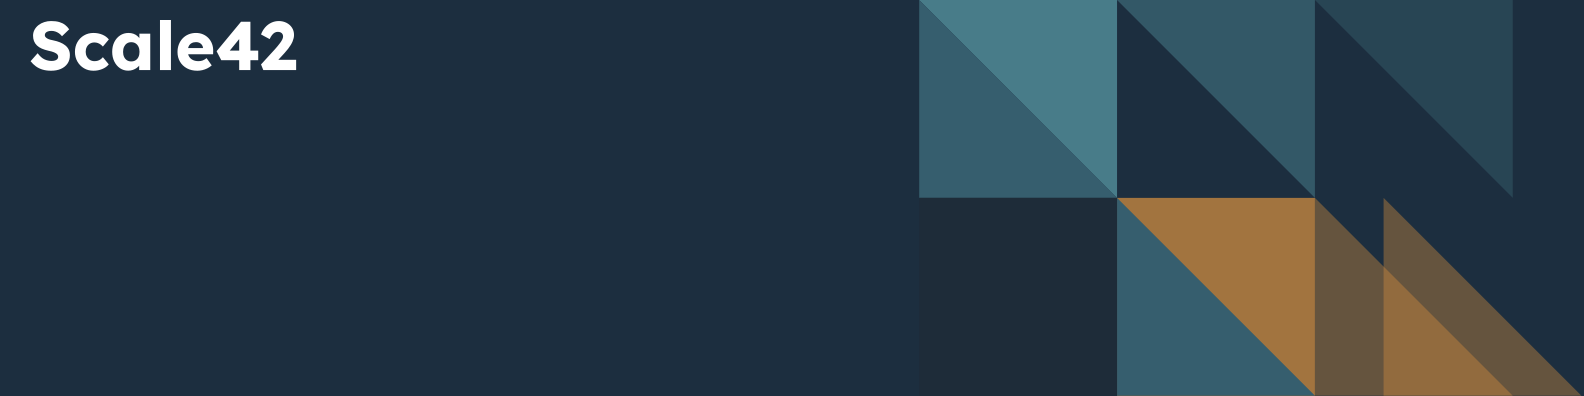
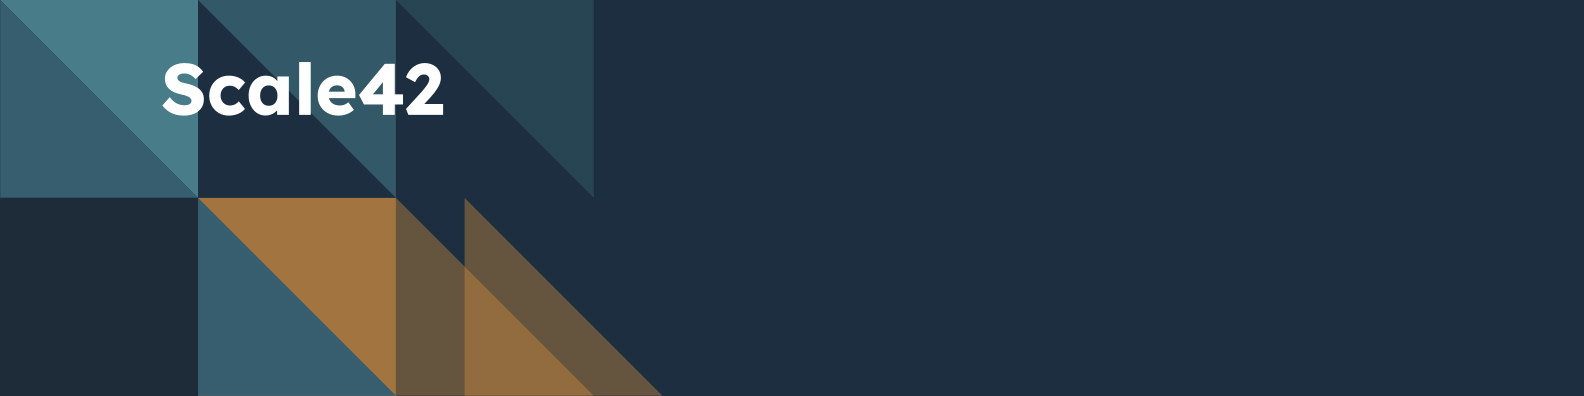
brand: social PNGs — mosaic anchored left, wordmark centered on top triangles

diff --git a/scripts/gen-social.js b/scripts/gen-social.js
@@ -37,38 +37,36 @@ const specs = [
       create: { width: W, height: H, channels: 4, background: { ...NAVY, alpha: 1 } }
     });
 
-    // Mosaic mark: fill height keeping aspect, anchored to right edge
+    // Mosaic mark: fill height keeping aspect, anchored to LEFT edge.
+    // If markW > W, keep the LEFT portion of the mark visible (crop the right overflow).
     const markH = H;
     const markW = Math.round(markH * MARK_AR);
     const mark = await sharp(markSvg, { density: 400 })
       .resize({ width: markW, height: markH, fit: 'fill' })
       .png().toBuffer();
-    const markLeft = W - markW; // could be negative; sharp clips automatically? Use extract or position via top/left with negative — sharp doesn't accept negative.
-    // For wide banners markW > W is rare (only when H very tall vs W); for tall banners markW < W so markLeft > 0
-    // Need handling: if markW > W, crop the mark from its right side to width W
     let markComp = mark;
-    let mLeft = markLeft;
-    let mTop = 0;
-    if (markLeft < 0) {
-      // Crop mark so its rightmost W pixels remain
-      markComp = await sharp(mark).extract({ left: -markLeft, top: 0, width: W, height: H }).png().toBuffer();
-      mLeft = 0;
+    let mLeft = 0;
+    let visibleMarkW = markW;
+    if (markW > W) {
+      markComp = await sharp(mark).extract({ left: 0, top: 0, width: W, height: H }).png().toBuffer();
+      visibleMarkW = W;
     }
 
-    // Wordmark: top-left, sized relative to canvas height
-    const wmH = Math.round(Math.min(H * 0.18, W * 0.10));
+    // Wordmark: centered horizontally over the visible mark, vertically in the upper triangles
+    // (top quadrant of mark — y range 0..H/2, centered at H/4)
+    const wmTargetW = Math.round(Math.min(visibleMarkW * 0.55, W * 0.45));
     const wm = await sharp(wordmarkSvg, { density: 400 })
-      .resize({ height: wmH })
+      .resize({ width: wmTargetW })
       .png().toBuffer();
     const wmMeta = await sharp(wm).metadata();
-    const padX = Math.round(Math.min(W, H) * 0.05);
-    const padY = padX;
+    const wmLeft = Math.round(mLeft + (visibleMarkW - wmMeta.width) / 2);
+    const wmTop = Math.round(H / 4 - wmMeta.height / 2);
 
     const out = path.join(OUT, `${name}.png`);
     await canvas
       .composite([
-        { input: markComp, left: mLeft, top: mTop },
-        { input: wm, left: padX, top: padY },
+        { input: markComp, left: mLeft, top: 0 },
+        { input: wm, left: Math.max(0, wmLeft), top: Math.max(0, wmTop) },
       ])
       .png({ compressionLevel: 9 })
       .toFile(out);
